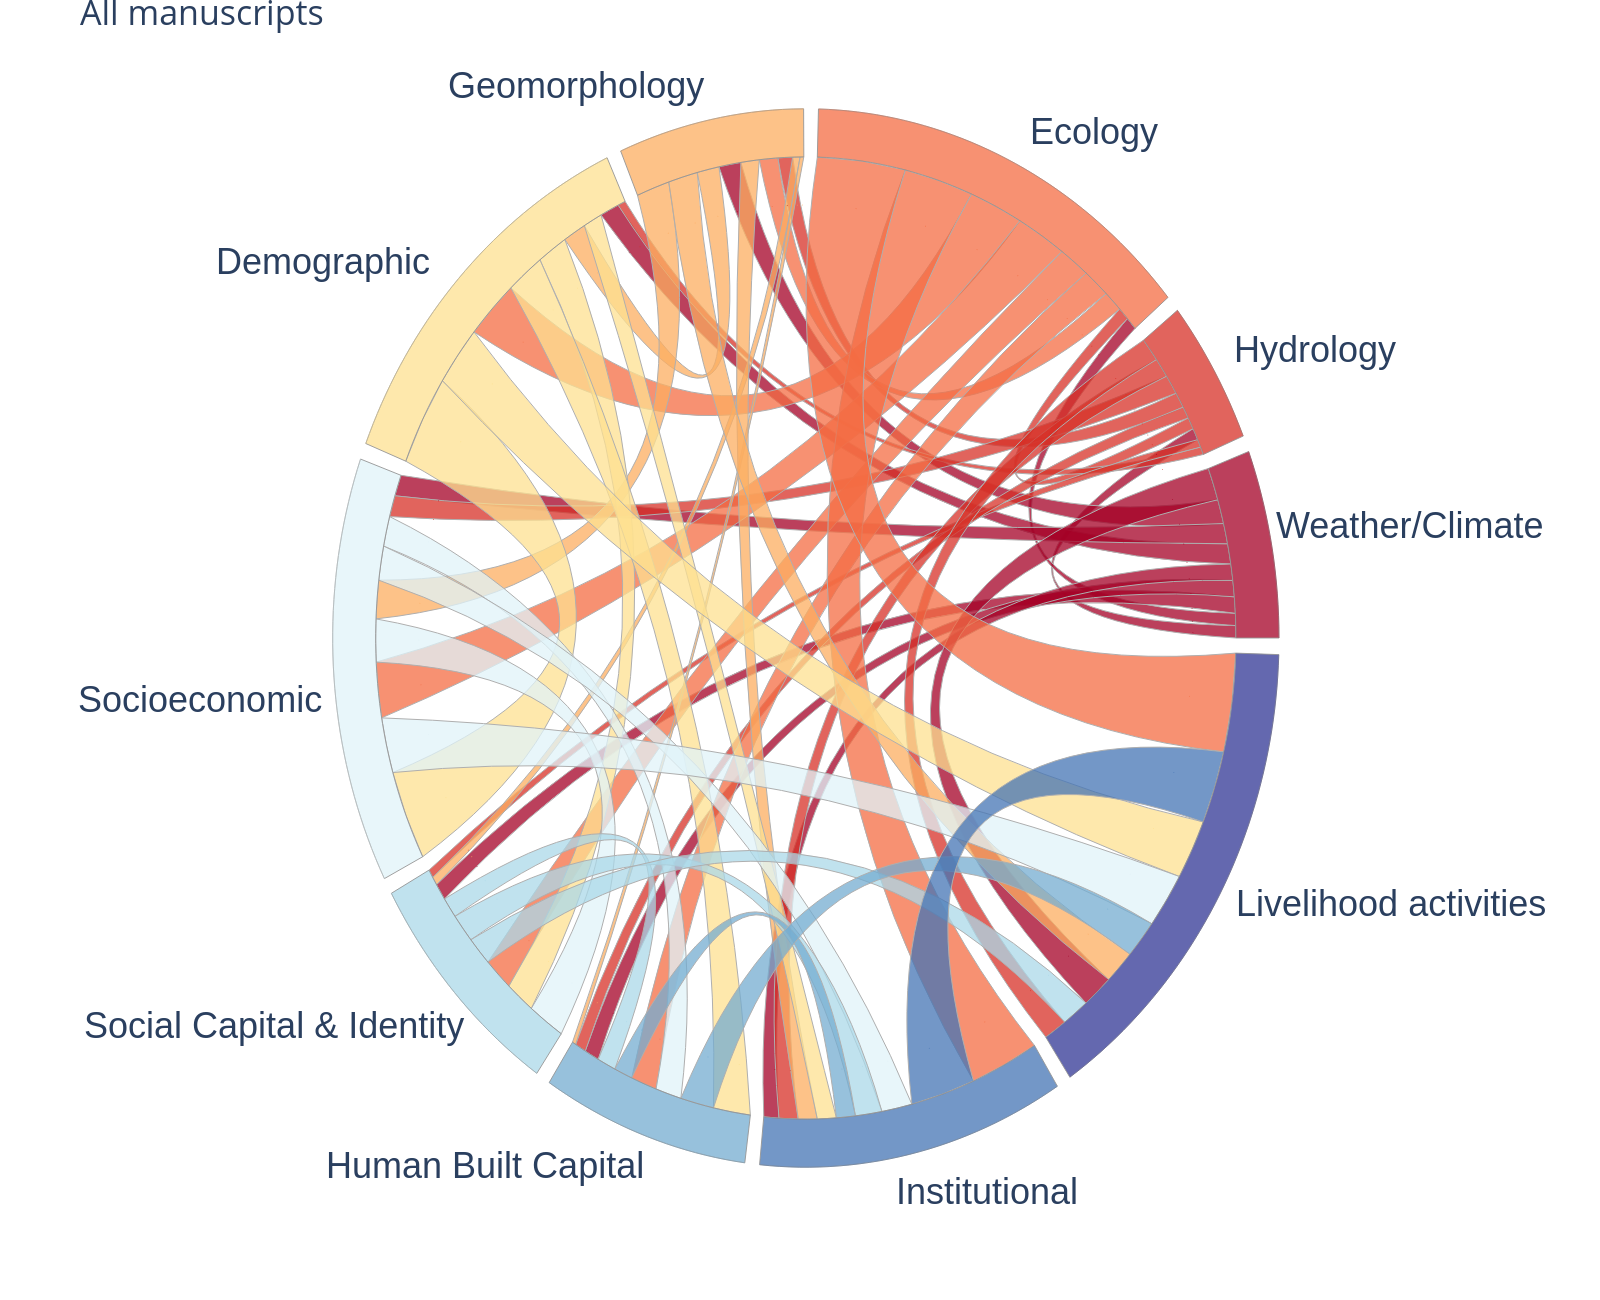
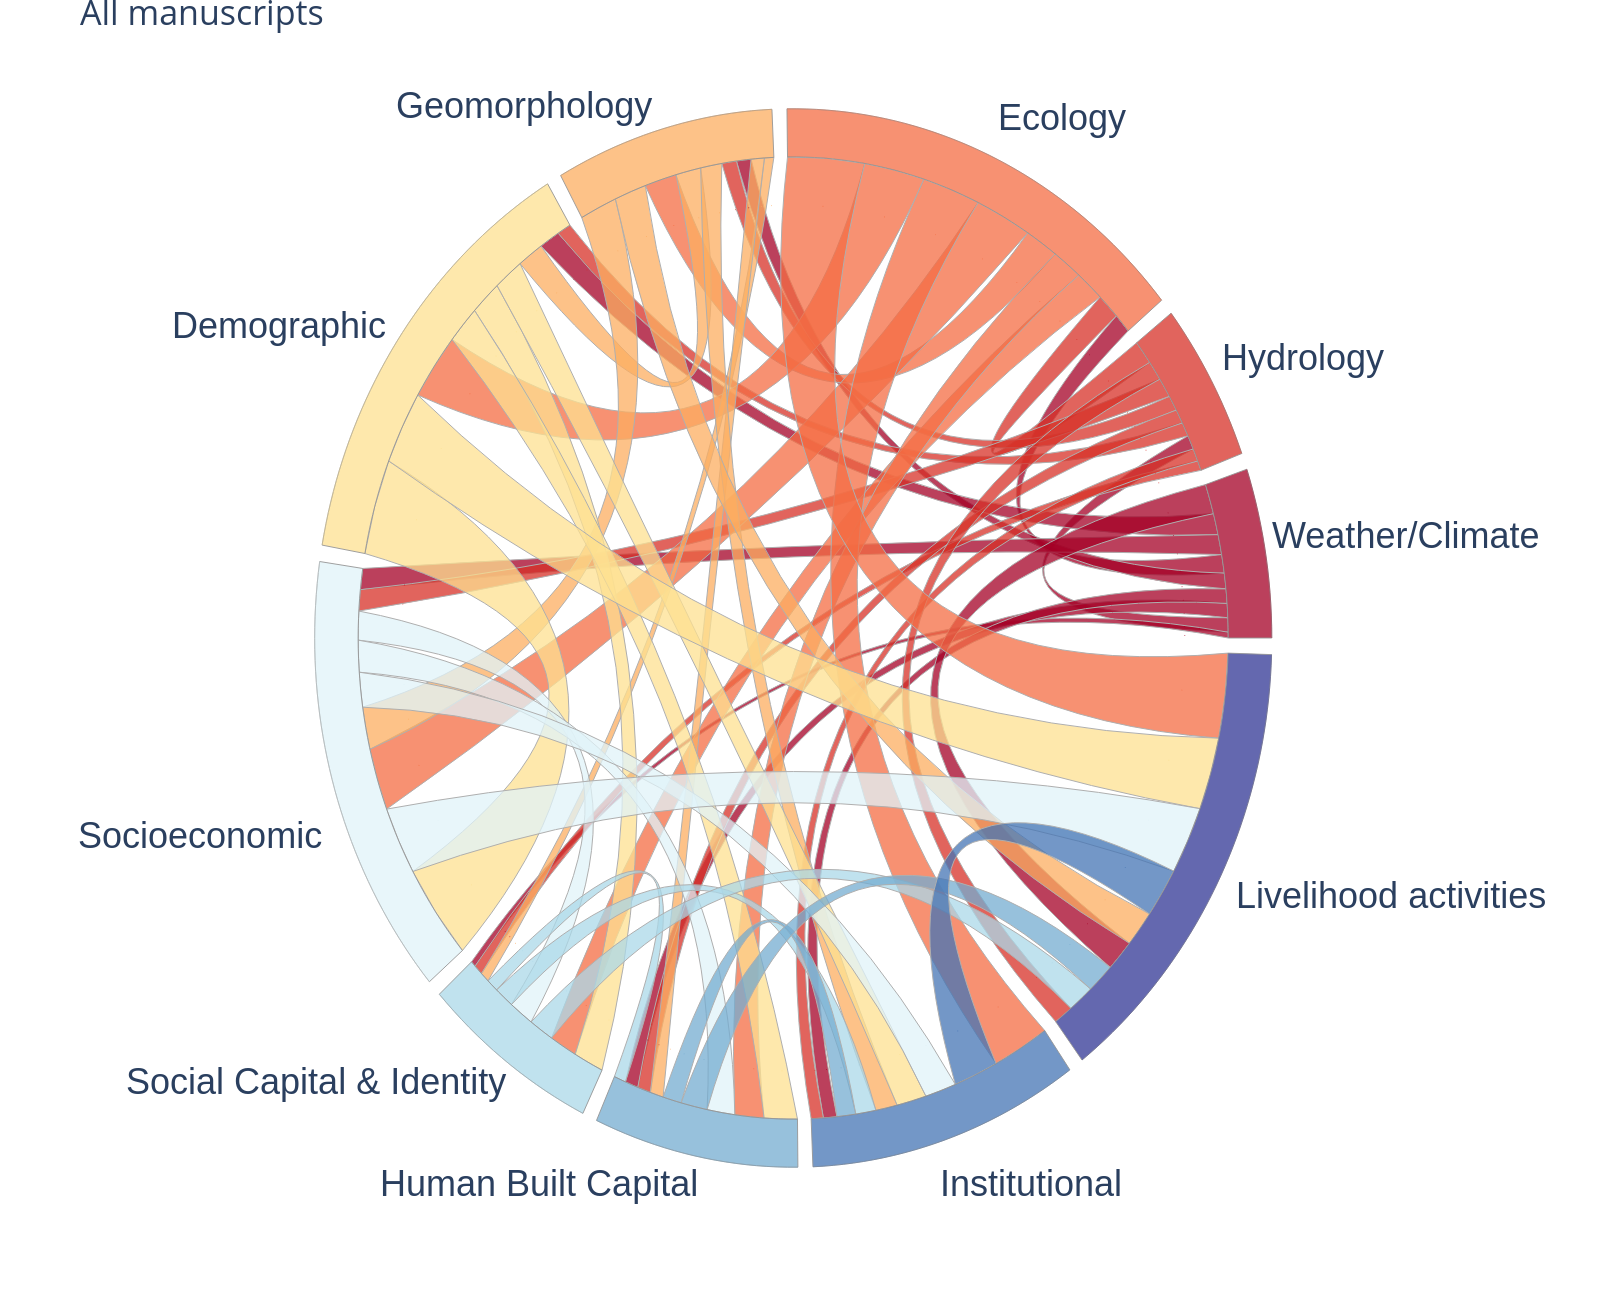
Updated figures for correct codes

diff --git a/functions.py b/functions.py
@@ -24,7 +24,7 @@ def create_matrix(dataframe, code=0):
     
     """
     if code == 0:
-        df = dataframe
+        df = dataframe.loc[dataframe['Code'] > 0]
     else:
         # Filter the data based on the value of the code argument.
         df = dataframe.loc[dataframe['Code'] == code]
